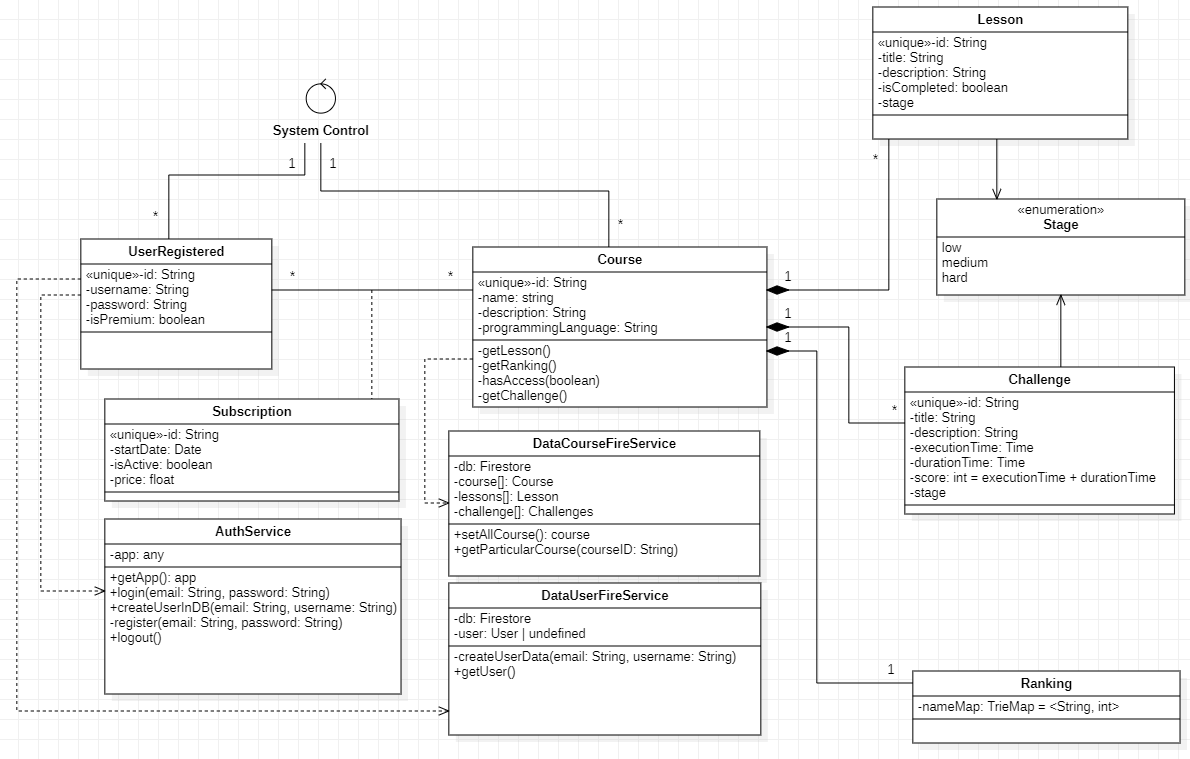
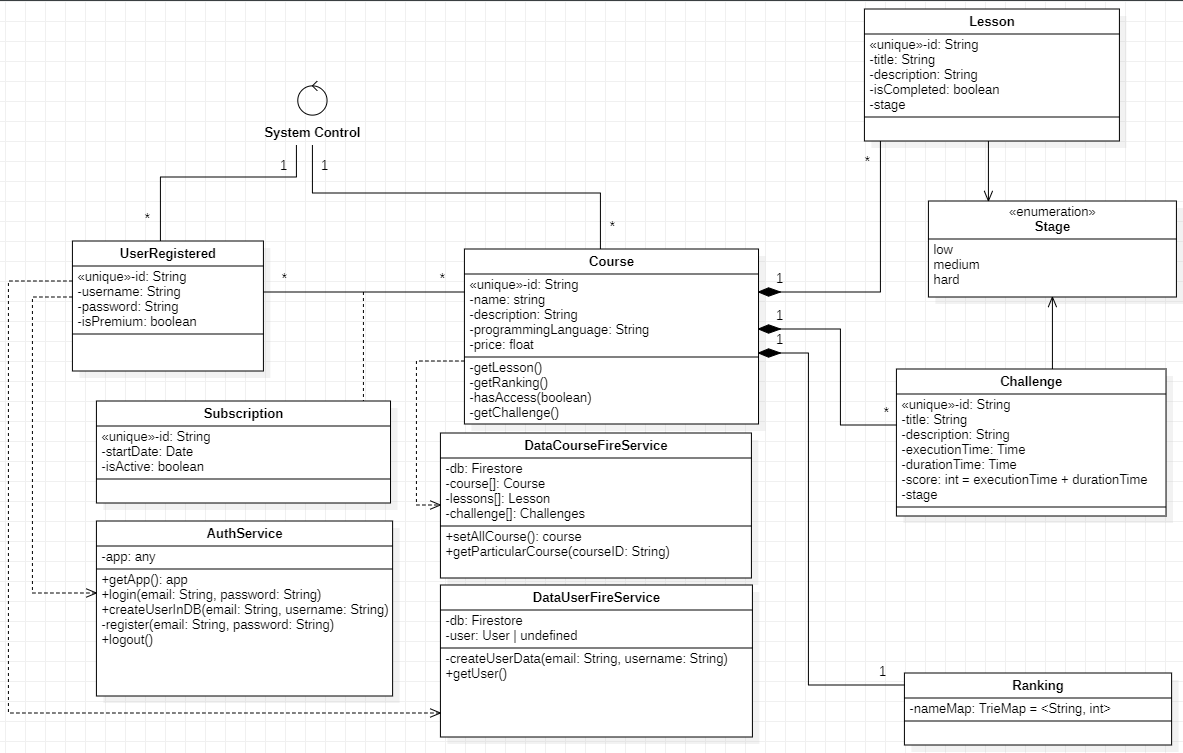
Servicio de subscripcion

Changed region(s): [[0.0, 0.0, 1.0, 1.0], [0.1217, 0.0916, 0.3043, 0.2444]]

diff --git a/academy_war/src/app/services/subscription.service.ts b/academy_war/src/app/services/subscription.service.ts
@@ -1,7 +1,6 @@
 import { Injectable } from '@angular/core';
-import { User } from '../class/user';
 import { AuthService } from './auth.service';
-import { collection, getDocs, getFirestore, query, where } from 'firebase/firestore';
+import { doc, collection, setDoc, getDocs, getFirestore, query, where, updateDoc, serverTimestamp } from 'firebase/firestore';
 import { Subscription } from '../class/subscription';
 
 @Injectable({
@@ -38,5 +37,23 @@ export class SubscriptionService {
       })
     })
     return res;
+  }
+
+  async createSubscription(user: string, course: String) {
+// Add a new document in collection "cities"
+    await setDoc(doc(this.db, "subscription", user+":"+course), {
+      isActive: false,
+      course: course,
+      user: user
+    });
+  }
+
+  async activateSubscription(user: string, course: String){
+    const q = doc(this.db, "subscription", user+":"+course);
+    
+    await updateDoc(q, {
+      isActive: true,
+      startDate: serverTimestamp()
+    });
   }
 }
